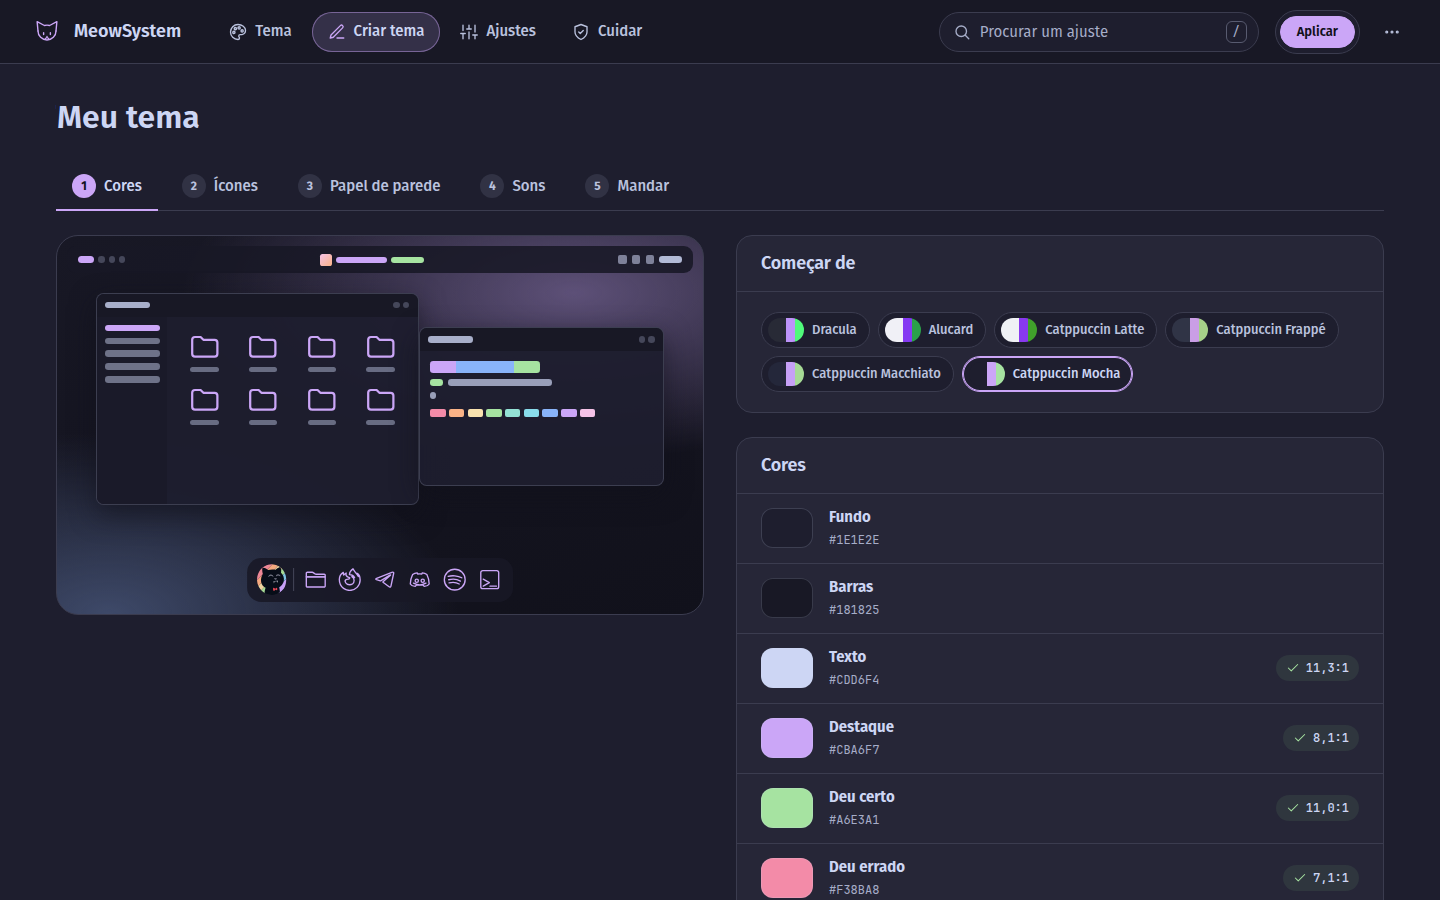
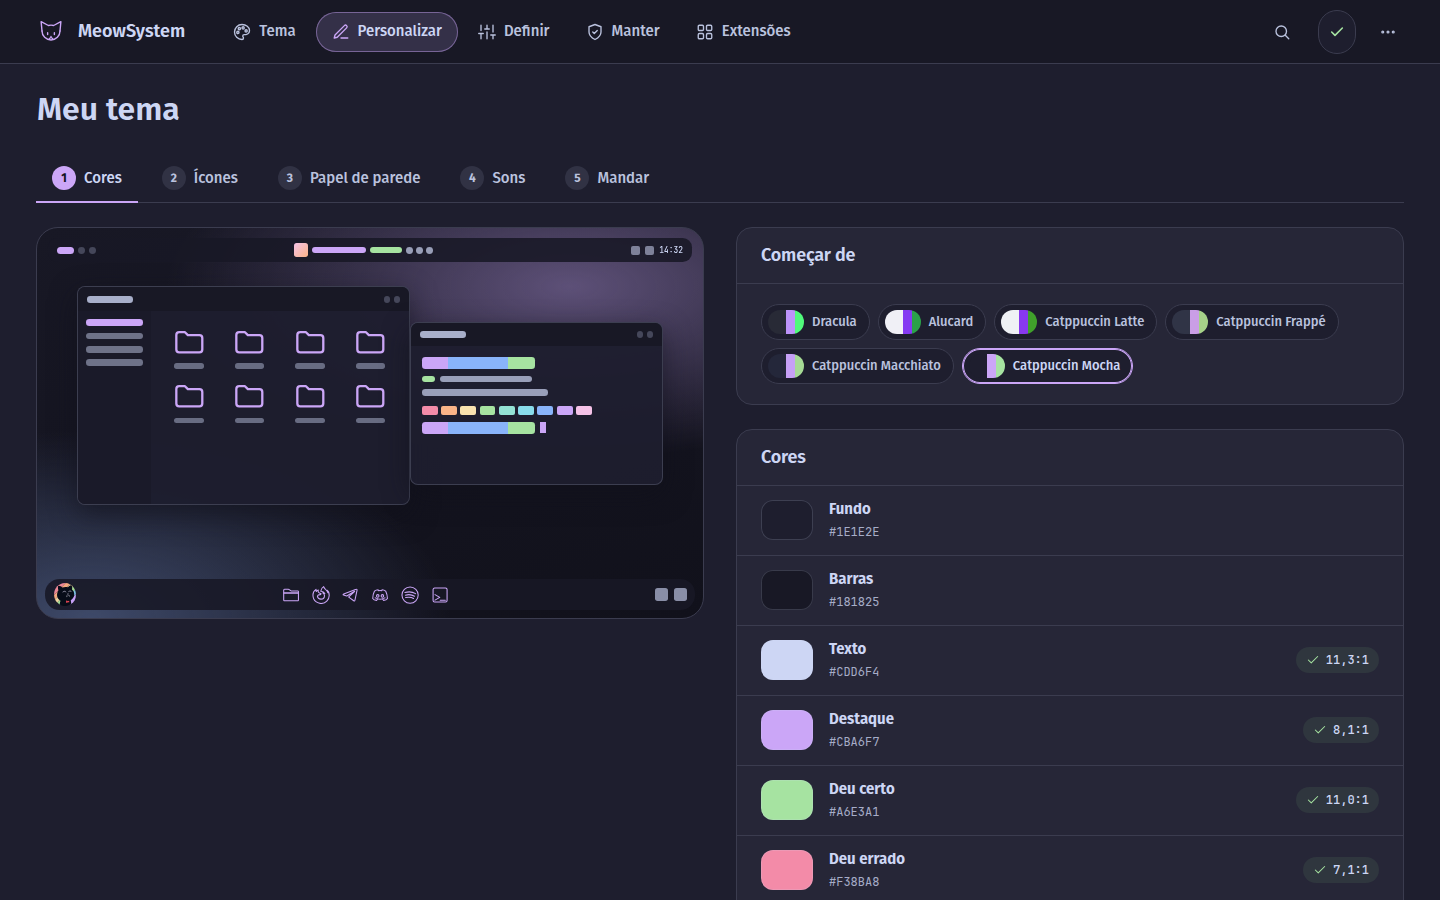
docs(readme): regerado do código

diff --git a/README.en.md b/README.en.md
@@ -42,19 +42,19 @@ compiler and libraries for the applets, `fastfetch` and `starship`. To rehearse 
 
 ## The panel
 
-`meow abrir`, or the MeowSystem icon in the launcher. 124 settings and 77 actions behind five doors (the panel speaks Portuguese):
+`meow abrir`, or the MeowSystem icon in the launcher. 124 settings and 71 actions behind five doors (the panel speaks Portuguese):
 
 <table>
 <tr>
 <td width="50%"><img src="docs/capturas/readme/tema.png" alt="The Tema door of the panel"><br><b>Tema</b>: one card per pack: logo, palette, what it brings and what it inherits. Vestir switches packs.</td>
-<td width="50%"><img src="docs/capturas/readme/criar.png" alt="The Criar tema door of the panel"><br><b>Criar tema</b>: your own pack, step by step: colors, icons, wallpaper, sounds, and download the theme.</td>
+<td width="50%"><img src="docs/capturas/readme/criar.png" alt="The Personalizar door of the panel"><br><b>Personalizar</b>: your own pack, step by step: colors, icons, wallpaper, sounds, and download the theme.</td>
 </tr>
 <tr>
-<td width="50%"><img src="docs/capturas/readme/ajustes.png" alt="The Ajustes door of the panel"><br><b>Ajustes</b>: panel and dock, windows, wallpaper, mascot, day and night, terminal and programs.</td>
-<td width="50%"><img src="docs/capturas/readme/cuidar.png" alt="The Cuidar door of the panel"><br><b>Cuidar</b>: the doctor and its fix button, pending items, and settings to carry to another machine.</td>
+<td width="50%"><img src="docs/capturas/readme/ajustes.png" alt="The Definir door of the panel"><br><b>Definir</b>: panel and dock, windows, wallpaper, mascot, day and night, terminal and programs.</td>
+<td width="50%"><img src="docs/capturas/readme/cuidar.png" alt="The Manter door of the panel"><br><b>Manter</b>: the doctor and its fix button, pending items, and settings to carry to another machine.</td>
 </tr>
 <tr>
-<td width="50%"><b>Extensões</b>: the house applets and your own: install, update, put on the panel, and the compositor builds.</td>
+<td width="50%"><img src="docs/capturas/readme/extensoes.png" alt="The Extensões door of the panel"><br><b>Extensões</b>: the house applets and your own: install, update, put on the panel, and the compositor builds.</td>
 </tr>
 </table>
 

diff --git a/README.md b/README.md
@@ -42,19 +42,19 @@ compilador e as bibliotecas dos applets, o `fastfetch` e o `starship`. Para ensa
 
 ## O painel
 
-`meow abrir`, ou o ícone MeowSystem no lançador. 124 ajustes e 71 ações em quatro portas:
+`meow abrir`, ou o ícone MeowSystem no lançador. 124 ajustes e 71 ações em cinco portas:
 
 <table>
 <tr>
 <td width="50%"><img src="docs/capturas/readme/tema.png" alt="A porta Tema do painel"><br><b>Tema</b>: um cartão por pack: logo, paleta, o que é próprio e o que herda. Vestir troca o pack.</td>
-<td width="50%"><img src="docs/capturas/readme/criar.png" alt="A porta Criar tema do painel"><br><b>Criar tema</b>: um pack seu, em passos: cores, ícones, papel de parede, sons, e baixar o tema.</td>
+<td width="50%"><img src="docs/capturas/readme/criar.png" alt="A porta Personalizar do painel"><br><b>Personalizar</b>: um pack seu, em passos: cores, ícones, papel de parede, sons, e baixar o tema.</td>
 </tr>
 <tr>
-<td width="50%"><img src="docs/capturas/readme/ajustes.png" alt="A porta Ajustes do painel"><br><b>Ajustes</b>: painel e dock, janelas, papel de parede, mascote, dia e noite, terminal e programas.</td>
-<td width="50%"><img src="docs/capturas/readme/cuidar.png" alt="A porta Cuidar do painel"><br><b>Cuidar</b>: o doctor e o Consertar, as pendências, e os ajustes para levar a outra máquina.</td>
+<td width="50%"><img src="docs/capturas/readme/ajustes.png" alt="A porta Definir do painel"><br><b>Definir</b>: painel e dock, janelas, papel de parede, mascote, dia e noite, terminal e programas.</td>
+<td width="50%"><img src="docs/capturas/readme/cuidar.png" alt="A porta Manter do painel"><br><b>Manter</b>: o doctor e o Consertar, as pendências, e os ajustes para levar a outra máquina.</td>
 </tr>
 <tr>
-<td width="50%"><b>Extensões</b>: os applets da casa e os de quem usa: instalar, atualizar, pôr no painel, e os builds do compositor.</td>
+<td width="50%"><img src="docs/capturas/readme/extensoes.png" alt="A porta Extensões do painel"><br><b>Extensões</b>: os applets da casa e os de quem usa: instalar, atualizar, pôr no painel, e os builds do compositor.</td>
 </tr>
 </table>
 
